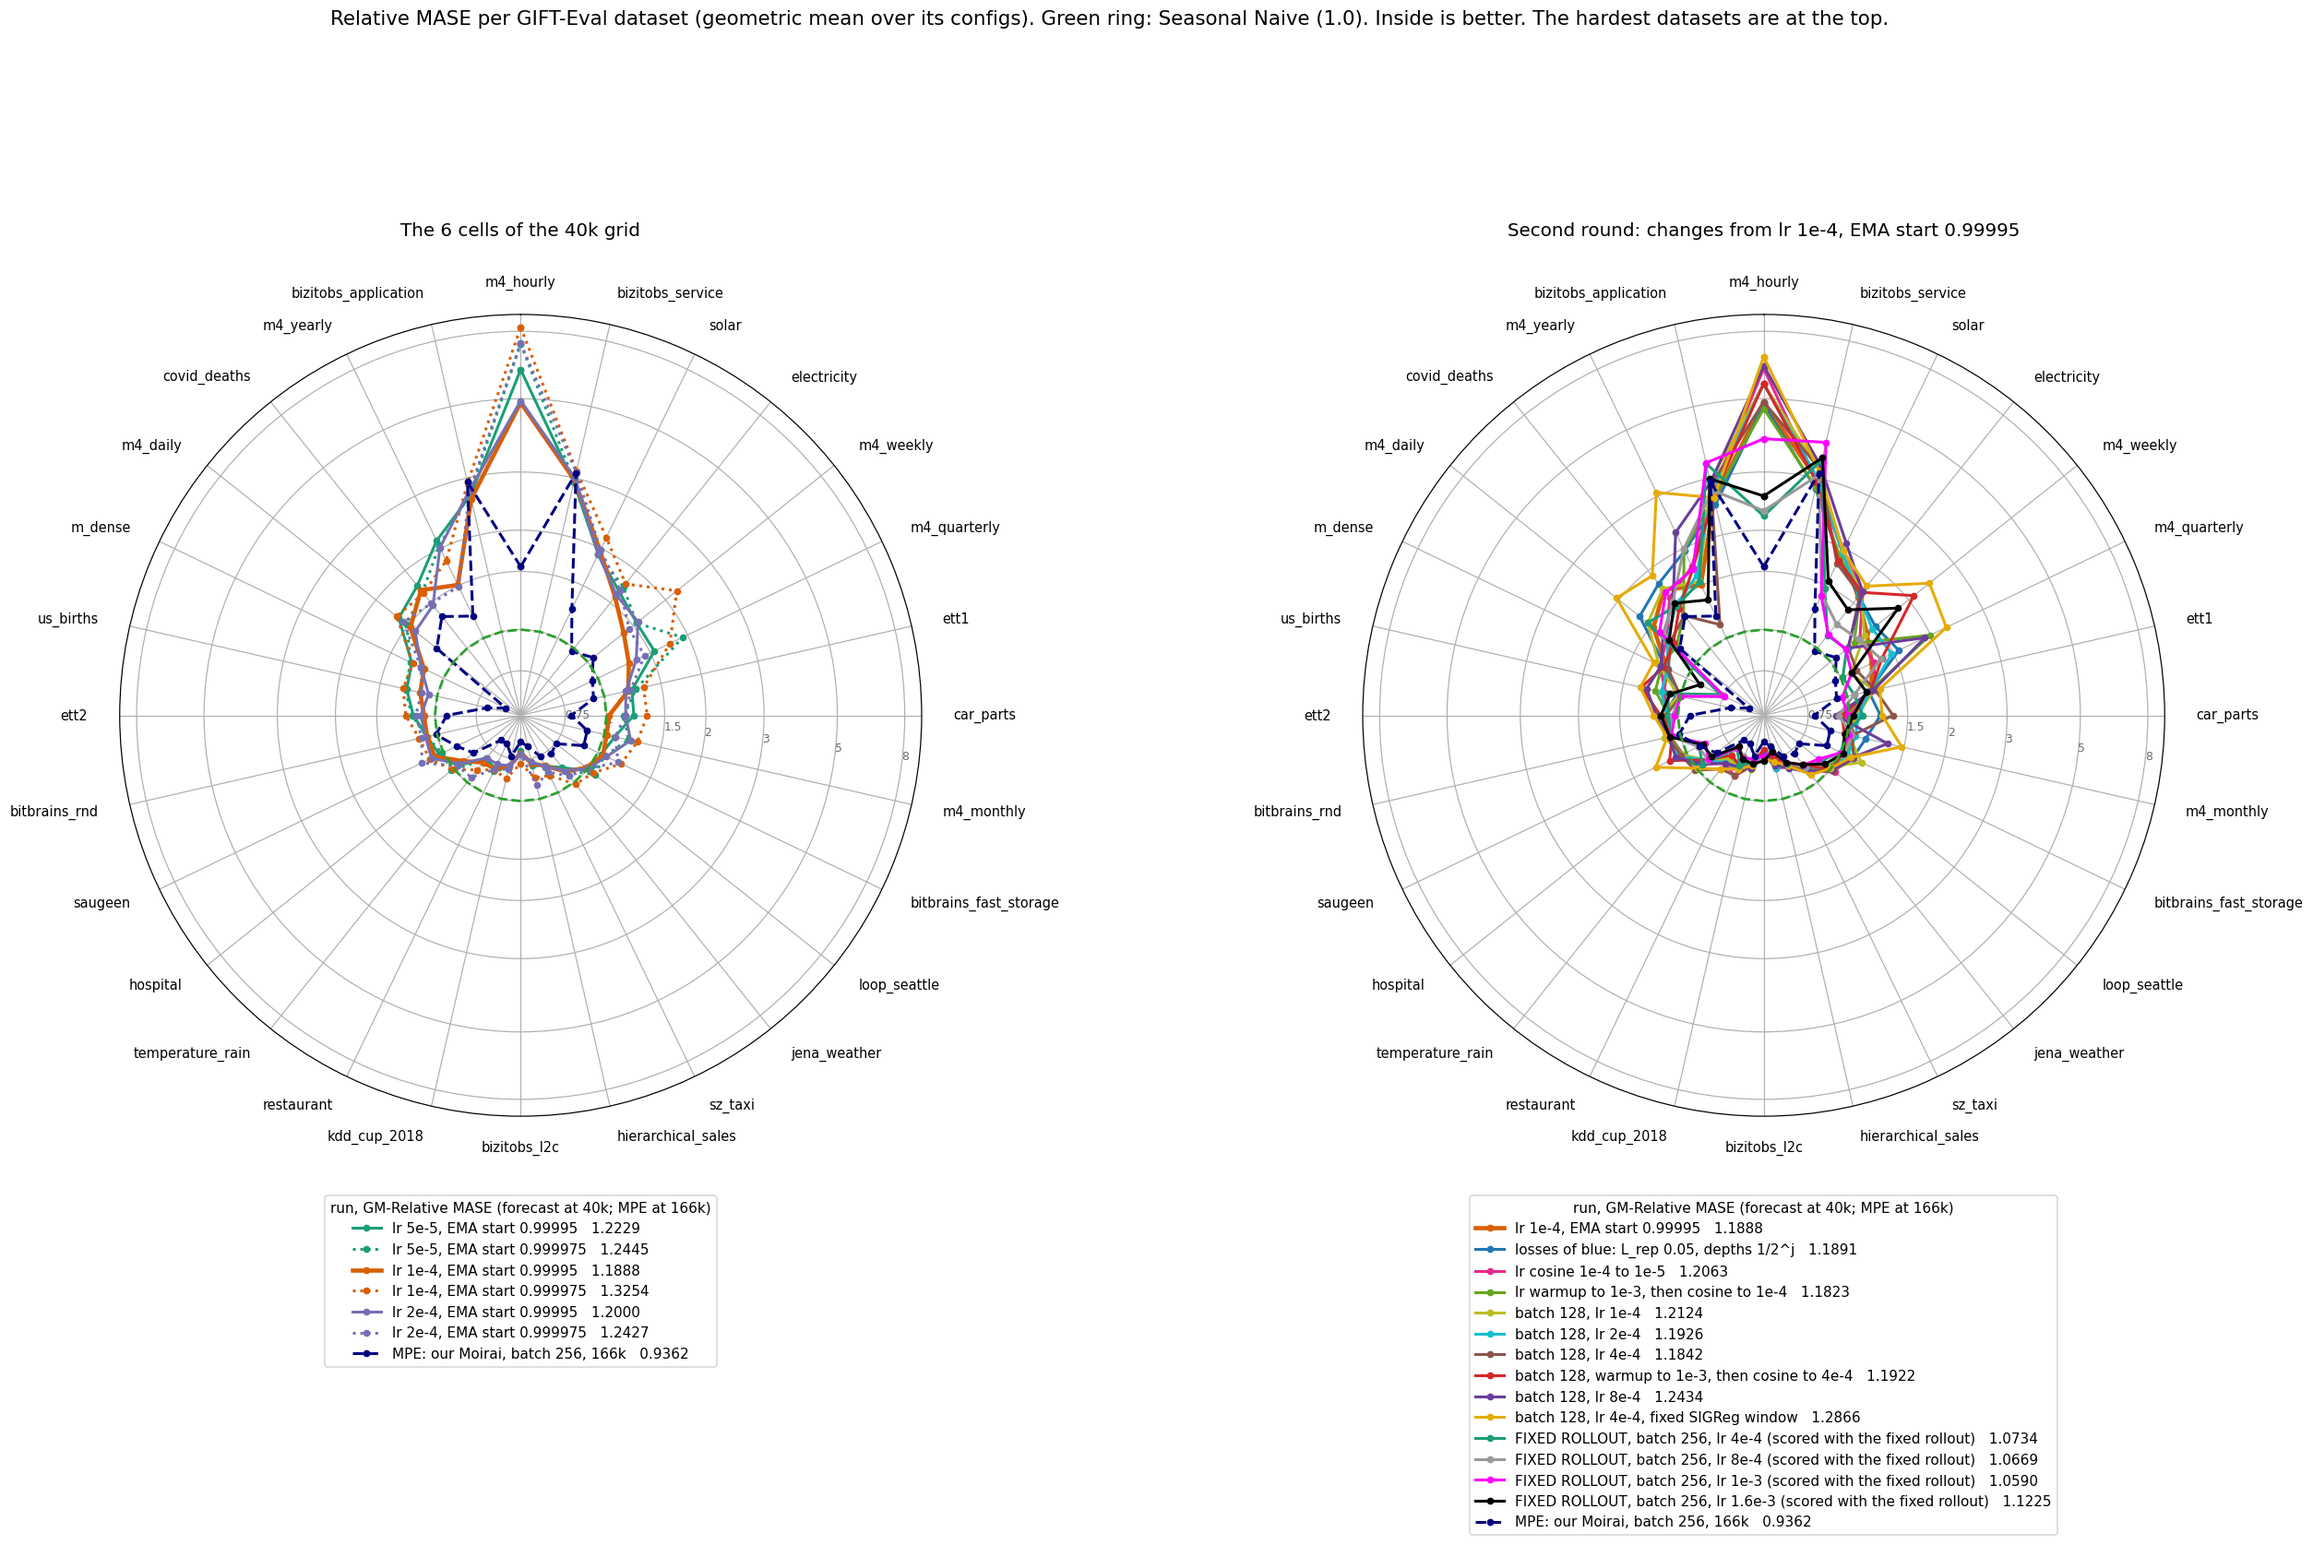
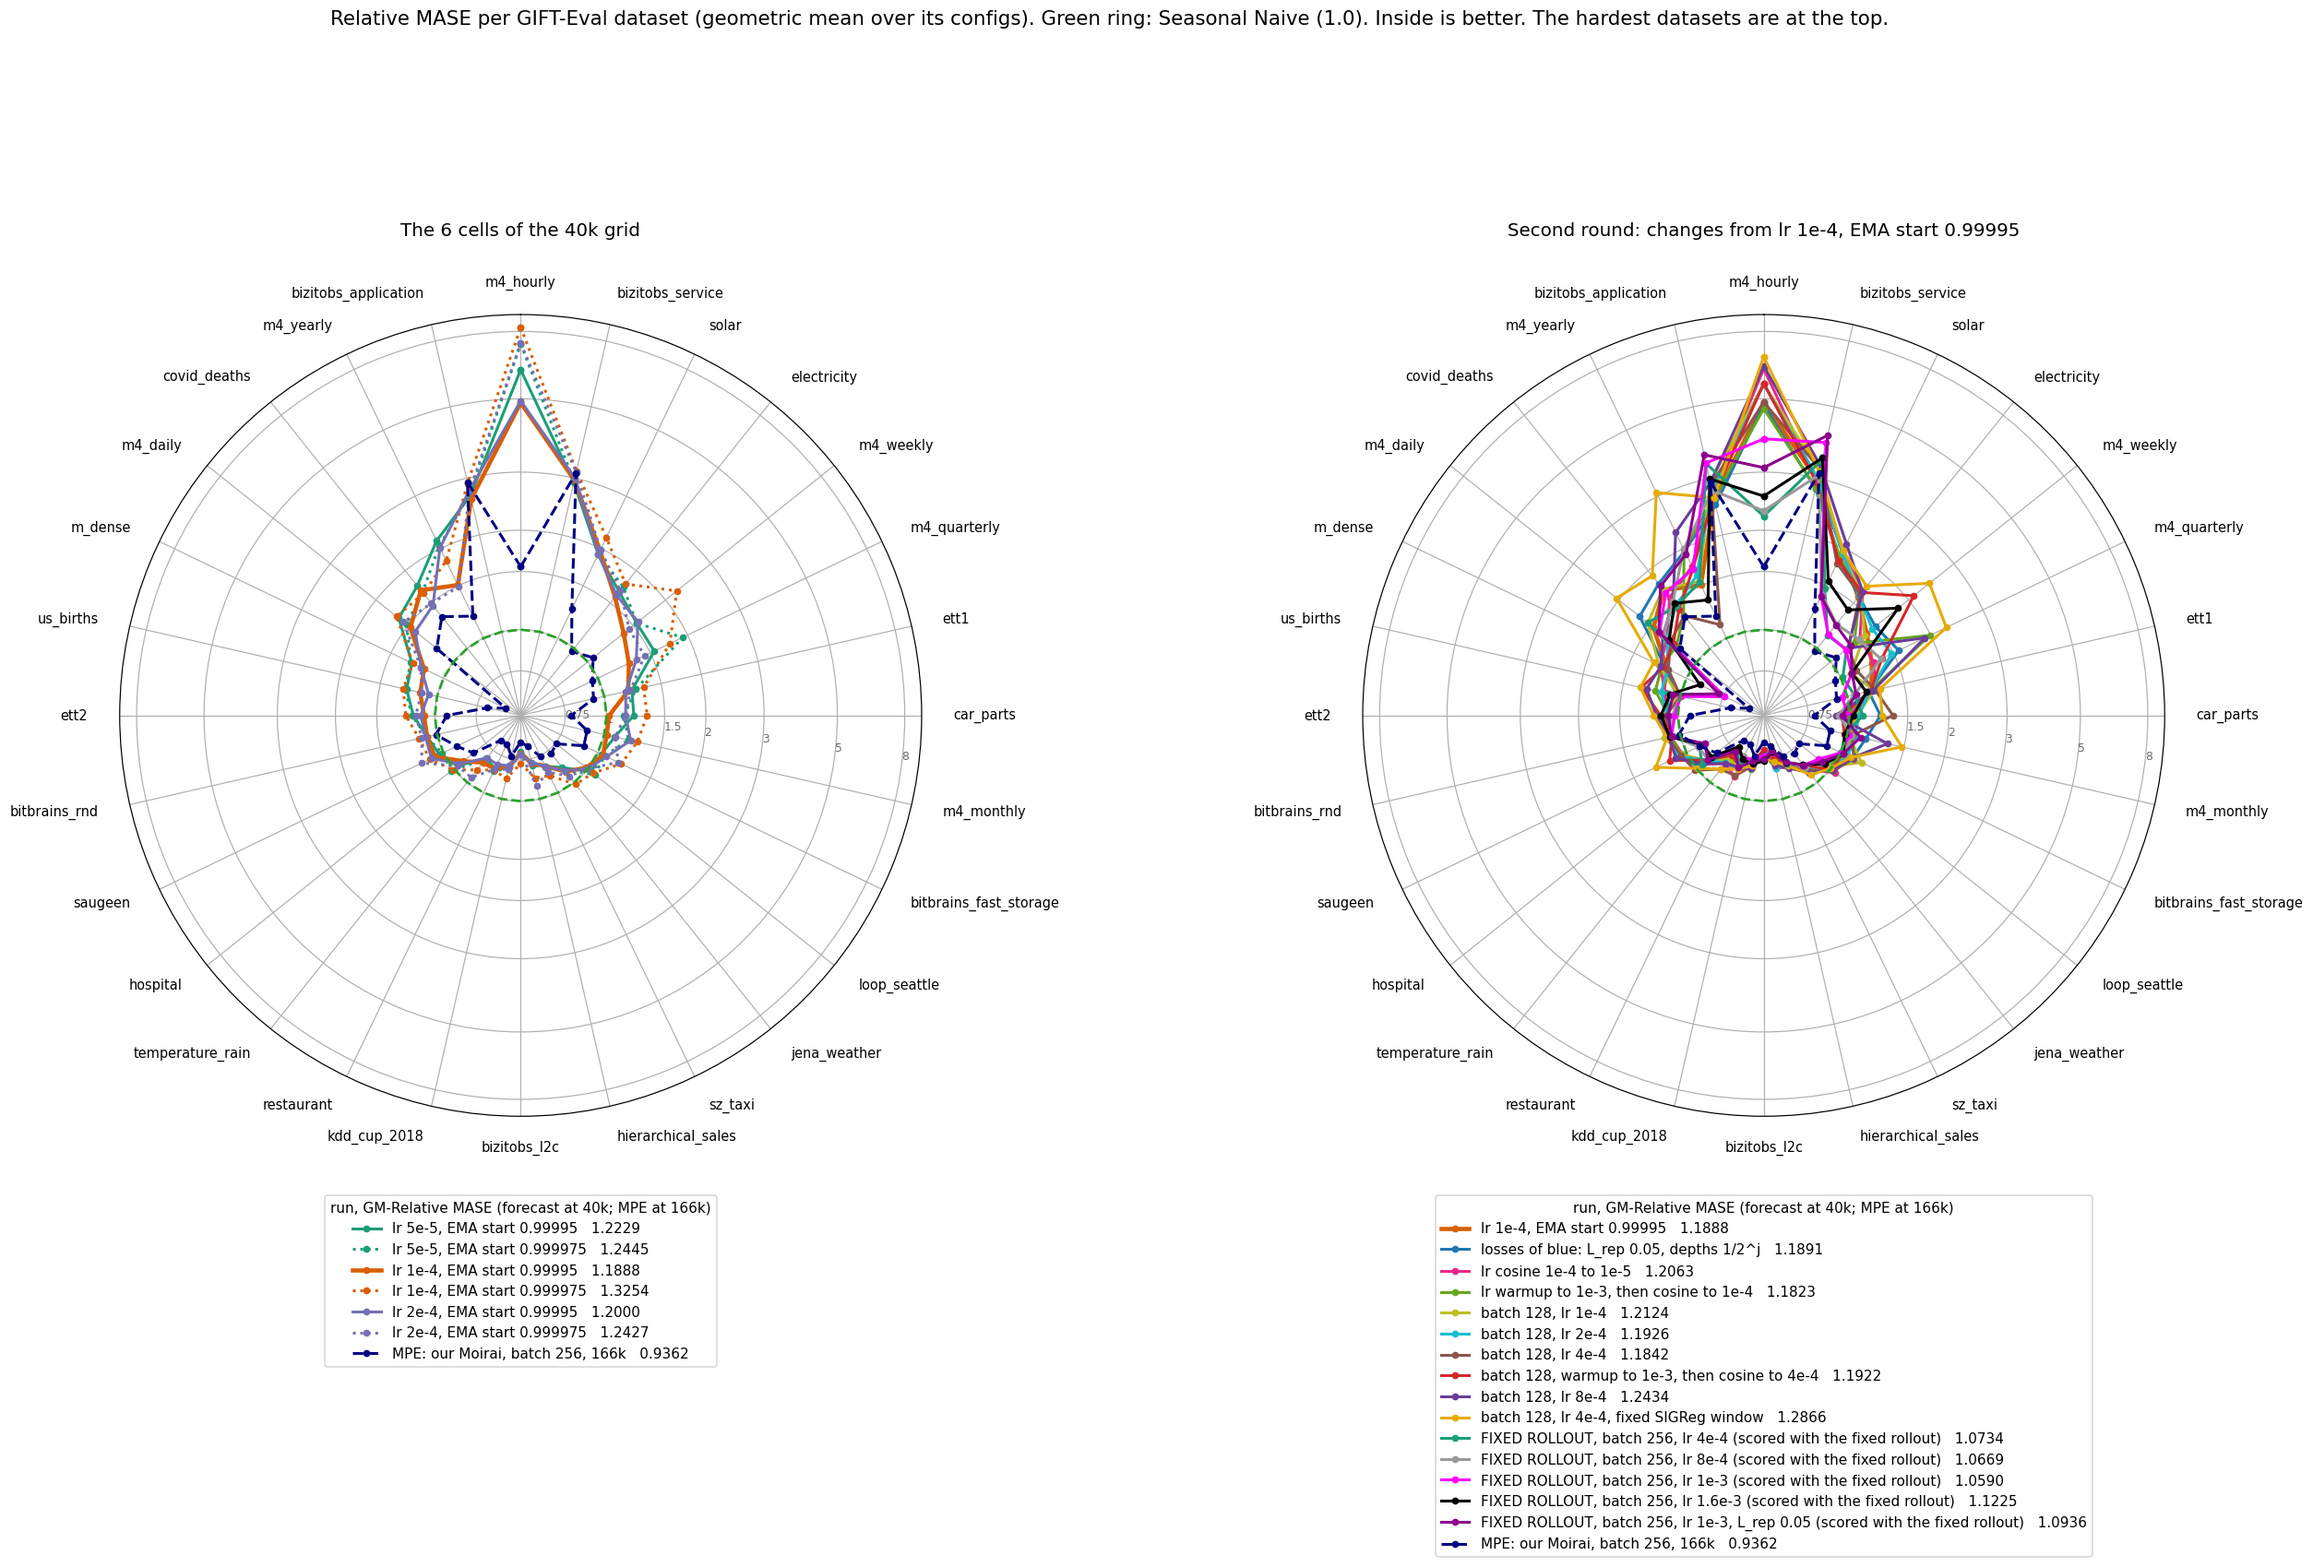
Batch 256 at lr 1e-3 with L_rep 0.05: 1.0936 at 40k (L_rep 0.1: 1.0590); the 20k score 1.0656 of the 80k run with the SIGReg latent scale

diff --git a/reports/2026-10-10_frequency_family_head/frequency_family_head.md b/reports/2026-10-10_frequency_family_head/frequency_family_head.md
@@ -89,12 +89,14 @@ They train with the normalised rollout feedback of #447, and their scores use th
 At batch 256, the constant learning rates 4e-4, 8e-4, 1e-3 and 1.6e-3 give 1.0734, 1.0669, 1.0590 and 1.1225.
 The lowest score is at 1e-3.
 Compared with 8e-4, the score at 1e-3 is lower on the medium and long horizons (1.1605 and 1.1546 against 1.1852 and 1.1728).
-At 1e-3, three runs train now: L_rep 0.05 for 40k steps, and L_rep 0.1 and 0.05 for 80k steps with the SIGReg window fix.
+At 1e-3, L_rep 0.05 gets 1.0936 at 40k (short 1.0114, medium 1.2092, long 1.2137), above L_rep 0.1 (1.0590).
+Two runs at 1e-3 train now for 80k steps with the SIGReg window fix, with L_rep 0.1 and 0.05.
 With the SIGReg window fix, SIGReg stays at about 8.2 per term on the latents of plain muP.
 Each coordinate of a latent stays at about 1, and the target of SIGReg is a variance of 1/64 per coordinate.
 A start of the patch encoder near zero (`--mup-init-input 0.01`) and a linear ramp of the learning rate over 1k steps did not change this.
 The 80k runs now train with `--sigreg-latent-scale inv_sqrt_d`: SIGReg reads each latent times 1/8, and the model stays plain muP.
 In a test of 300 steps, SIGReg on the encoder output falls from 9.4 to 0.09 with this factor.
+At 20k, the 80k run with L_rep 0.1 gets 1.0656 (short 0.9844, medium 1.1831, long 1.1811).
 With the fixed rollout, batch 128 at 4e-4 gets 1.2440, and 1.1842 with the raw rollout (the right column).
 This run trained with the raw rollout feedback.
 At 40k, the fixed rollout also gives higher scores for violet (1.1948 against 1.1430) and blue (1.2337 against 1.1944), the two muP runs with the flags of the grid.
